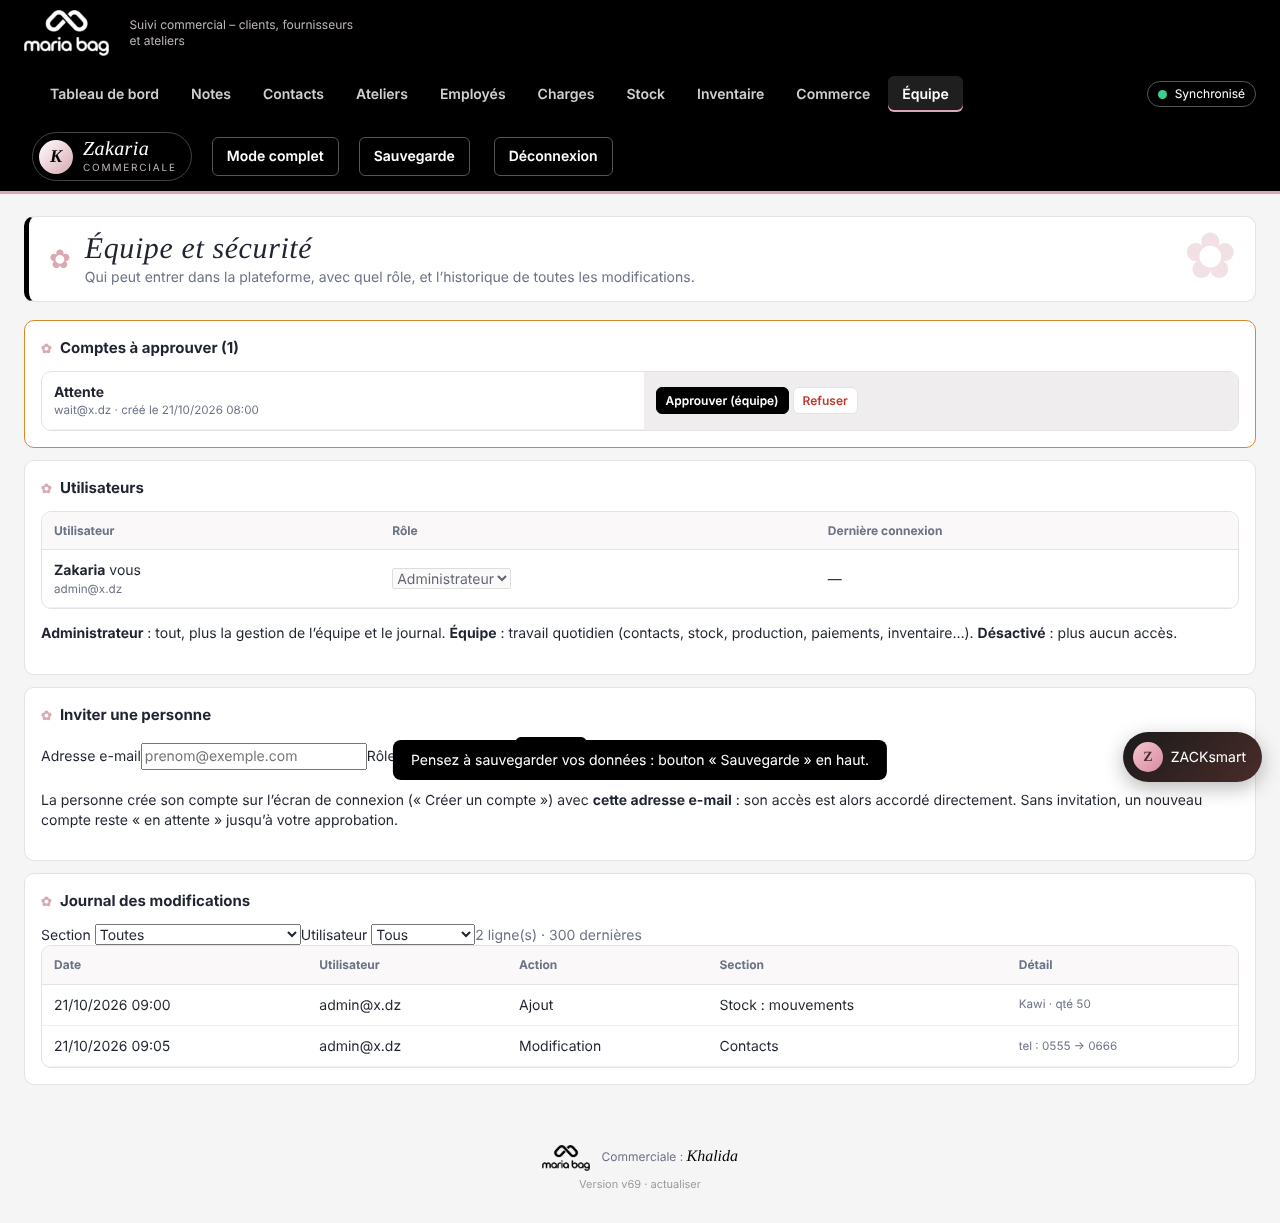
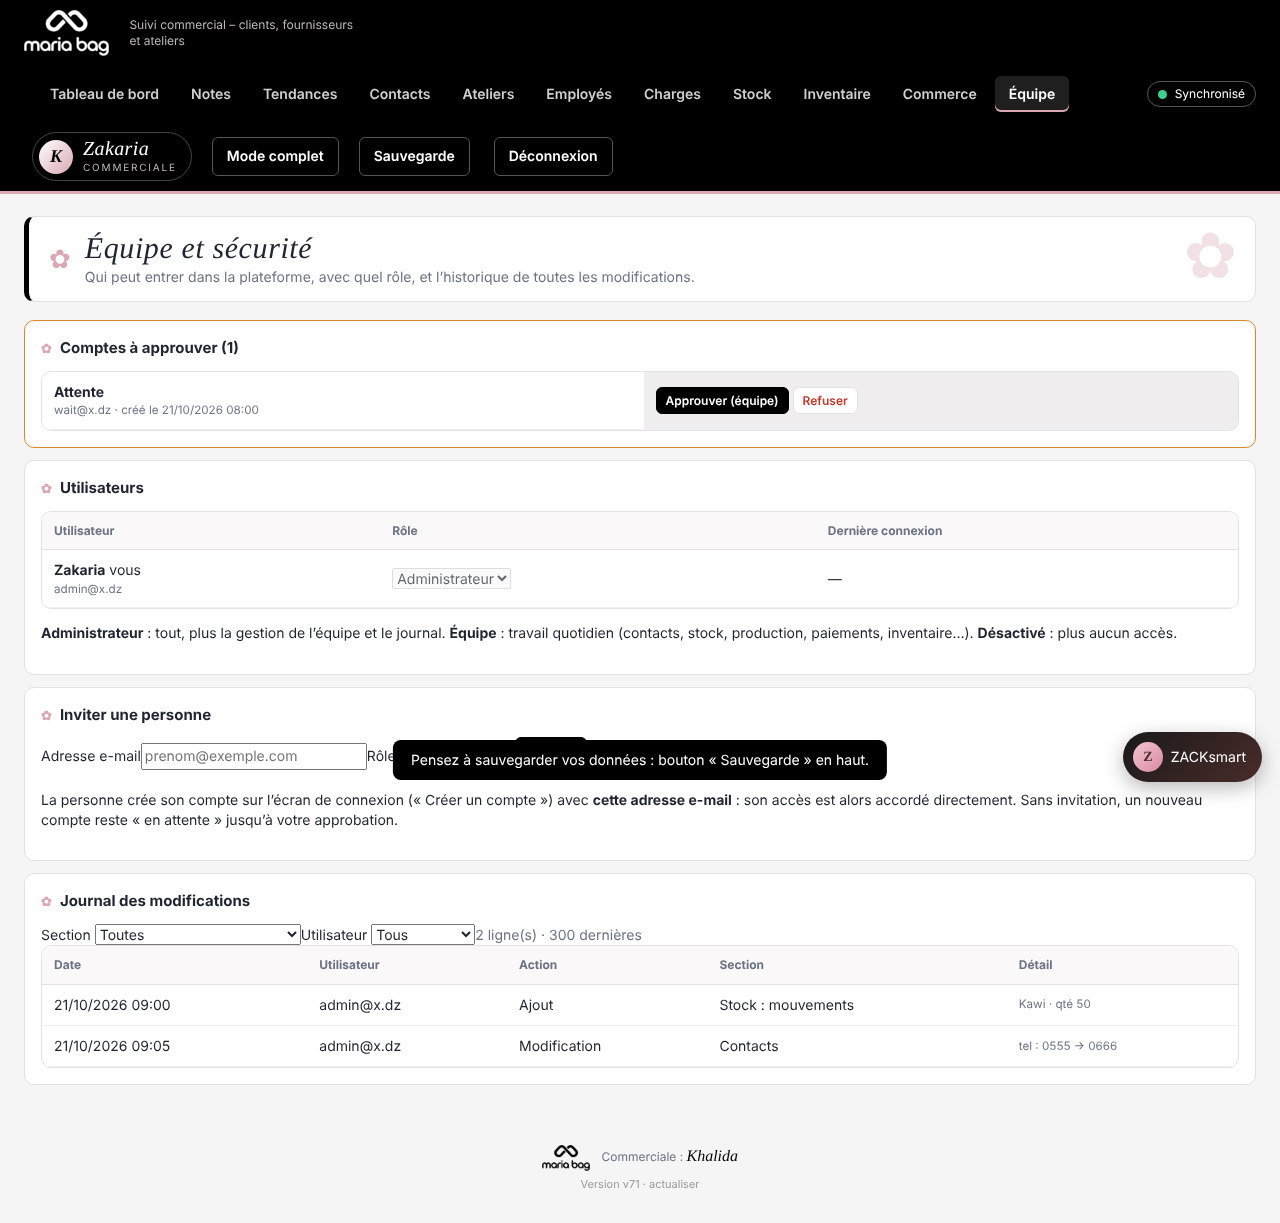
Connexion : plus de déconnexion quand l'horloge de l'ordinateur est décalée (échéance de session calculée en heure locale, 429 non fatal, avertissement d'horloge)
Claude-Session: https://claude.ai/code/session_017v9msisxc5oSegX8bGPiH2

diff --git a/js/local-db.js b/js/local-db.js
@@ -519,10 +519,46 @@
     if (txt) txt.title = title + ' Cliquez pour synchroniser maintenant.';
   }
 
+  /* ---------- Horloge de l'ordinateur décalée : protection contre les déconnexions ----------
+     Si l'heure de l'ordinateur est fausse de plus d'une heure, la bibliothèque de connexion croit que la session est expirée à chaque
+     requête et redemande un jeton en boucle jusqu'au blocage du serveur (429) : « Votre session a expiré ». On date donc la session
+     avec l'horloge LOCALE (les durées restent exactes, seul le décalage disparaît), et un 429 n'efface plus la session. */
+  function avertirHorloge(skew) {
+    try {
+      if (document.getElementById('skew-banner')) return;
+      var min = Math.round(Math.abs(skew) / 60000), txt = (min >= 60 ? Math.floor(min / 60) + ' h ' + (min % 60 ? (min % 60) + ' min ' : '') : min + ' min ') + (skew > 0 ? 'en avance' : 'en retard');
+      var b = document.createElement('div'); b.id = 'skew-banner';
+      b.style.cssText = 'position:fixed;left:12px;right:12px;top:12px;z-index:3000;background:#fff4d6;color:#6b4a00;border:1px solid #e6c36a;border-radius:12px;padding:12px 14px;font-size:14px;line-height:1.45;max-width:640px;margin:0 auto;box-shadow:0 8px 30px rgba(0,0,0,.25)';
+      b.innerHTML = '<b>⚠ L’heure de cet ordinateur est fausse (' + txt + ').</b> Réglez la date, l’heure et le <b>fuseau horaire en automatique</b> (Windows : Paramètres → Heure et langue → « Régler l’heure automatiquement » et « Synchroniser maintenant »). Sinon des déconnexions peuvent survenir. <button type="button" style="float:right;border:0;background:transparent;font-size:18px;cursor:pointer">×</button>';
+      b.querySelector('button').onclick = function () { b.remove(); };
+      document.body.appendChild(b);
+    } catch (e) { /* sans importance */ }
+  }
+  function guardFetch(input, init) {
+    var url = typeof input === 'string' ? input : (input && input.url) || '';
+    if (url.indexOf('/auth/v1/token') === -1) return fetch(input, init);
+    return fetch(input, init).then(function (resp) {
+      if (resp.status === 429) {                                         // trop de demandes : réponse « réessayez plus tard » (la session est gardée)
+        return resp.text().then(function (t) { return new Response(t, { status: 503, statusText: 'Service Unavailable', headers: resp.headers }); });
+      }
+      if (!resp.ok) return resp;
+      return resp.clone().json().then(function (j) {
+        if (!j || !j.access_token || !j.expires_in) return resp;
+        try {
+          var pl = JSON.parse(atob(j.access_token.split('.')[1].replace(/-/g, '+').replace(/_/g, '/')));
+          if (pl.iat) { var skew = Date.now() - pl.iat * 1000; window.CLOCK_SKEW_MS = skew; if (Math.abs(skew) > 5 * 60000) avertirHorloge(skew); }
+        } catch (e) { /* jeton illisible : ignoré */ }
+        j.expires_at = Math.floor(Date.now() / 1000) + Number(j.expires_in);   // échéance calculée avec l'horloge locale
+        var h = new Headers(resp.headers); h.delete('content-length'); h.set('content-type', 'application/json');
+        return new Response(JSON.stringify(j), { status: resp.status, statusText: resp.statusText, headers: h });
+      }).catch(function () { return resp; });
+    });
+  }
+
   /* ---------- Client exposé à l'application ---------- */
   function createClient(url, key) {
     try {
-      if (url && key && window.supabase && window.supabase.createClient) remote = window.supabase.createClient(url, key);
+      if (url && key && window.supabase && window.supabase.createClient) remote = window.supabase.createClient(url, key, { global: { fetch: guardFetch } });
     } catch (e) { remote = null; }
     return { from: function (t) { return new Query(t); } };
   }

diff --git a/sw.js b/sw.js
@@ -7,7 +7,7 @@
      hors ligne sont gérées par js/local-db.js)
    Changez CACHE_VERSION pour forcer la mise à jour chez tous les utilisateurs.
    ============================================================ */
-const CACHE_VERSION = 'mariabag-v70';
+const CACHE_VERSION = 'mariabag-v71';
 const SHELL = [
   './',
   './index.html',
